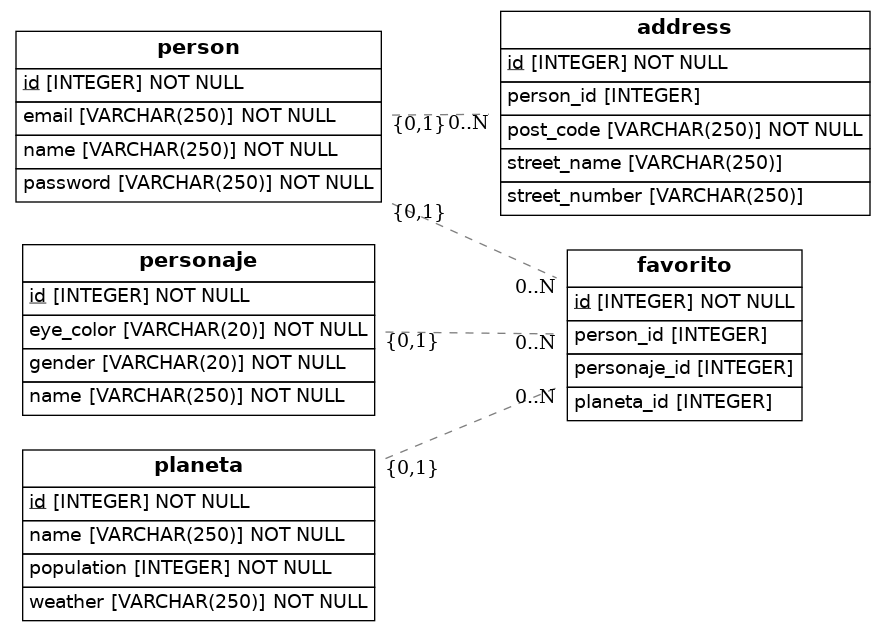
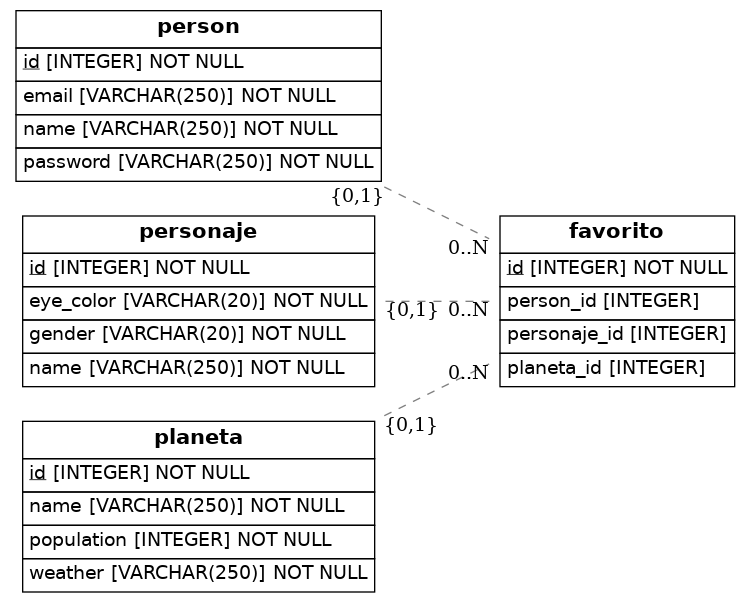
modelo de datos

Changed region(s): [[0.0, 0.0, 1.0, 1.0]]

diff --git a/src/models.py b/src/models.py
@@ -16,19 +16,7 @@ class Person(Base):
     email = Column(String(250), nullable=False)
     password = Column(String(250), nullable=False)
 
-class Address(Base):
-    __tablename__ = 'address'
-    # Here we define columns for the table address.
-    # Notice that each column is also a normal Python instance attribute.
-    id = Column(Integer, primary_key=True)
-    street_name = Column(String(250))
-    street_number = Column(String(250))
-    post_code = Column(String(250), nullable=False)
-    person_id = Column(Integer, ForeignKey('person.id'))
-    person = relationship(Person)
 
-    def to_dict(self):
-        return {}
     
 class Personaje(Base):
     __tablename__ = 'personaje'
